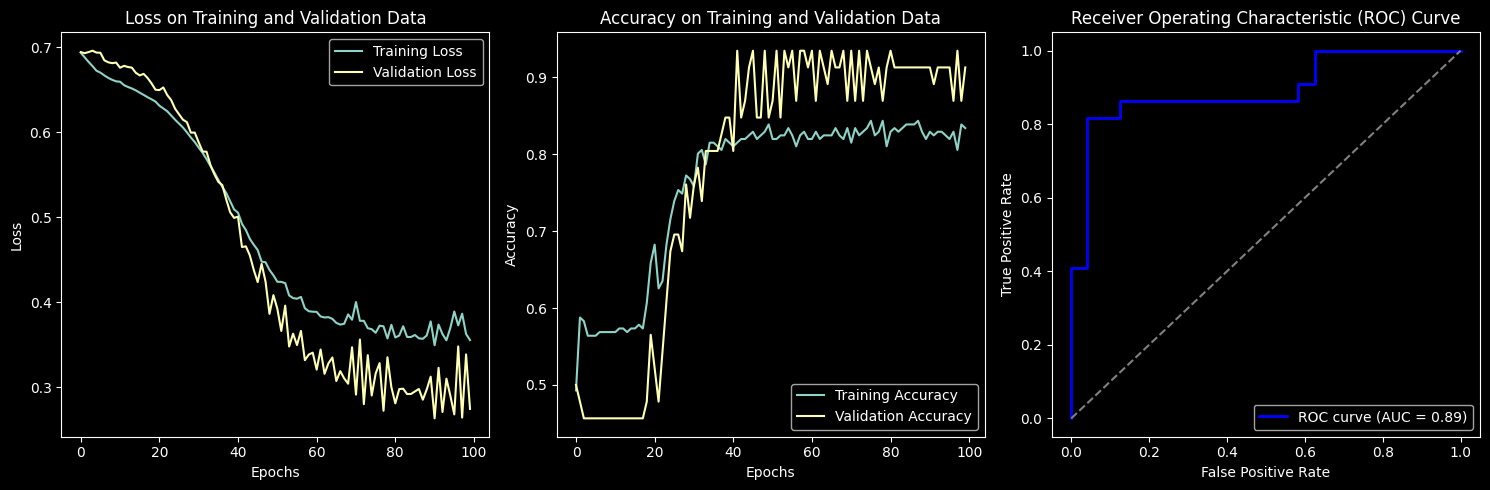
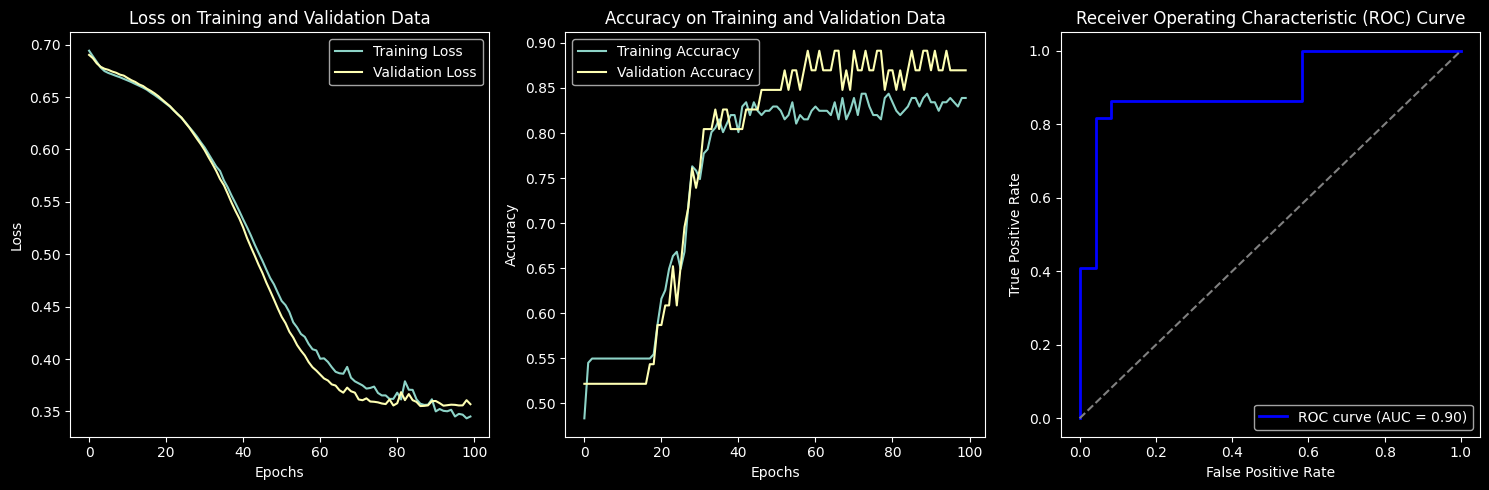
Edited my ssection (Hubert P).

diff --git a/index.html b/index.html
@@ -744,7 +744,7 @@
             <h2>Results analysis</h2>
             <p>Z pierwszego treningu wynika, że sieć się nie douczyła, ponieważ Training Loss > Validation Loss oraz Training Accuracy < Validation Accuracy. Jednakże od około połowy epochs widzimy więcej fluktuacji, niż trendu zmian w związku z czym może trzeba będzie poprawić np. batch_size lub learning_rate.</p>
             <h2>Parameter tuning</h2>
-            <p></p>
+            <p>Przygotowaliśmy funkcję do testowania zmian hiperparametrów. Jako argumenty przyjmuje rozkład wykresów, zbiór treningowy, parametr, który będziemy zmieniać oraz zakres zmian. Opcjonalnymi argumentami są mnożnik zmian (jak skalować od do oraz krok) oraz czy model ma zawierać dropout. Gdy będziemy chcieli zmienić hiperparametr na stałe, dokonamy tego wewnątrz tej funkcji. Zaczynamy z batch_size = 32, epochs = 100, learning_rate = 0.01, momentum = 0.9.</p>
             <div class="code-snippet">
                 <pre class="line-numbers"><code class="language-python">
                     def default_model():
@@ -767,9 +767,9 @@
                     def plot_models(subplot, X_train, y_train, change, max, multiplier=1, min=0, model_type="Without dropout", title=""):
                         step = int((max-min)/20)     # Here is the magic place where we set how long program will work
                         if(step<1): step = 1
-                        batch_size = 10
+                        batch_size = 32
                         epochs = 100
-                        learning_rate = 0.001
+                        learning_rate = 0.01
                         momentum = 0.9
                         if(model_type == "With dropout"): model = dropout_model()
                         else: model = default_model()
@@ -789,12 +789,6 @@
                             test_loss, test_accuracy = model.evaluate(Xv, yv)
                             validation_losses.append(test_loss)
                             validation_accuracies.append(test_accuracy)
-                        # plt.subplot(subplot[0], subplot[1], subplot[2])
-                        # plt.plot([multiplier*i for i in range(min, max+1, step)], validation_losses, label='Validation loss')
-                        # plt.plot([multiplier*i for i in range(min, max+1, step)], validation_accuracies, label='Validation accuracy')
-                        # plt.title(str(model_type)+" "+str(title))
-                        # plt.xlabel(" ".join([str(item) for item in change]))
-                        # plt.legend()
 
                         ax1 = plt.subplot(subplot[0], subplot[1], subplot[2])
                         ax1.plot([multiplier*i for i in range(min, max+1, step)], validation_accuracies, color="#198038")
@@ -804,6 +798,55 @@
                         ax2.set_ylabel('Validation loss', color="#1192e8")
                         plt.title(str(model_type)+" "+str(title))
                         plt.xlabel(" ".join([str(item) for item in change]))
+                </code></pre>
+            </div>
+            <h3>Number of epochs</h3>
+            <p>Powyżej 100 epoc nie widać poprawy, więc epochs zastawiamy 100.</p>
+            <div class="code-snippet">
+                <pre class="line-numbers"><code class="language-python">
+                    display(Javascript('''google.colab.output.setIframeHeight(0, true, {maxHeight: 100})'''))
+                    plt.figure(figsize=(10, 4))
+                    plot_models([1,2,1], X_train, y_train, "epoch", 400)
+                    plot_models([1,2,2], X_train, y_train, "epoch", 400, model_type="With dropout")
+                    plt.tight_layout()
+                    plt.show()
+                </code></pre>
+            </div>
+            <div class="plot"><img src="img/ff_hd/epochs.png"></img></div>
+            <h3>Batch size</h3>
+            <p></p>
+            <div class="code-snippet">
+                <pre class="line-numbers"><code class="language-python">
+                    display(Javascript('''google.colab.output.setIframeHeight(0, true, {maxHeight: 100})'''))
+                    plt.figure(figsize=(10, 4))
+                    plot_models([1,2,1], X_train, y_train, "batch_size", 100)
+                    plot_models([1,2,2], X_train, y_train, "batch_size", 100, model_type="With dropout")
+                    plt.tight_layout()
+                    plt.show()
+                </code></pre>
+            </div>
+            <div class="plot"><img src="img/ff_hd/first_network.png"></img></div>
+            <h3>Learning rate</h3>
+            <p></p>
+            <div class="code-snippet">
+                <pre class="line-numbers"><code class="language-python">
+                    
+                </code></pre>
+            </div>
+            <div class="plot"><img src="img/ff_hd/first_network.png"></img></div>
+            <h3>Momentum</h3>
+            <p></p>
+            <div class="code-snippet">
+                <pre class="line-numbers"><code class="language-python">
+                    
+                </code></pre>
+            </div>
+            <div class="plot"><img src="img/ff_hd/first_network.png"></img></div>
+            <h2>Example of a good model</h2>
+            p></p>
+            <div class="code-snippet">
+                <pre class="line-numbers"><code class="language-python">
+                    
                 </code></pre>
             </div>
 
